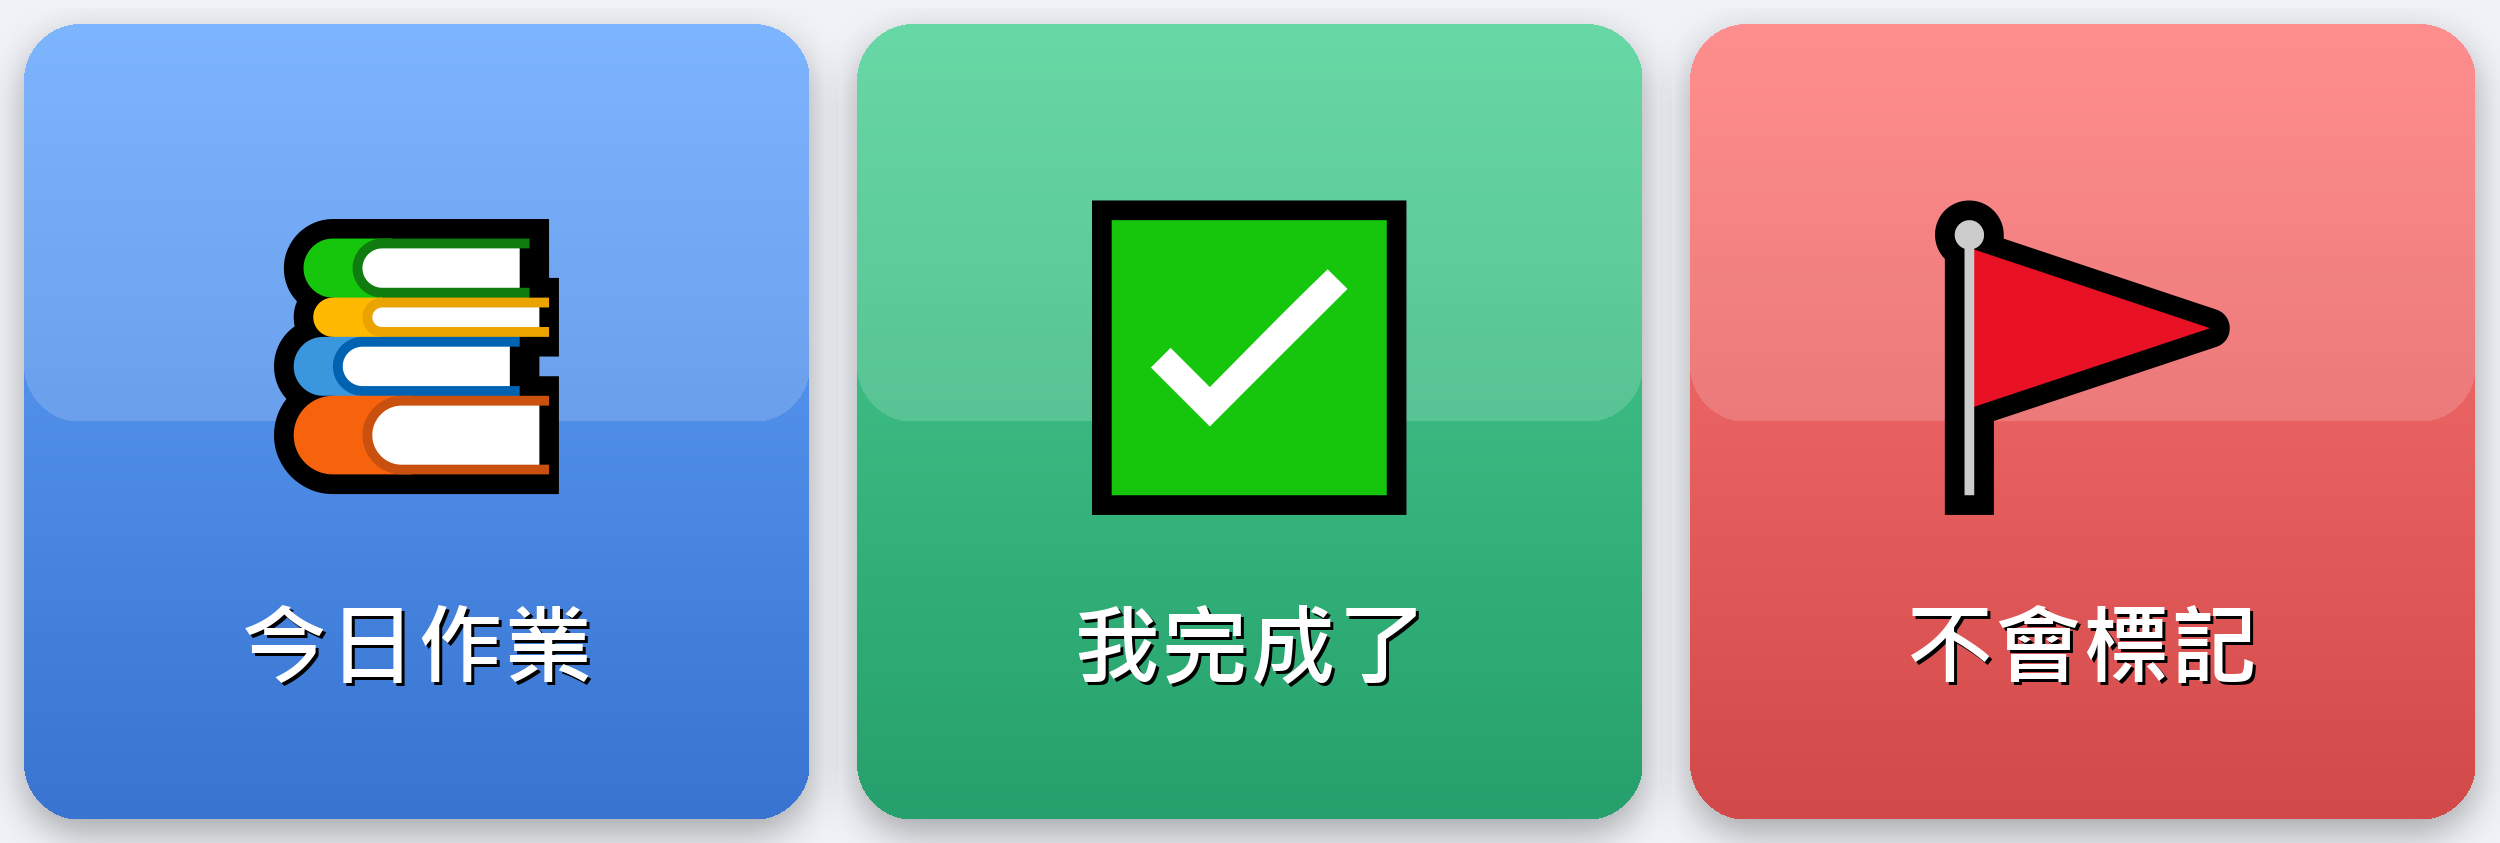
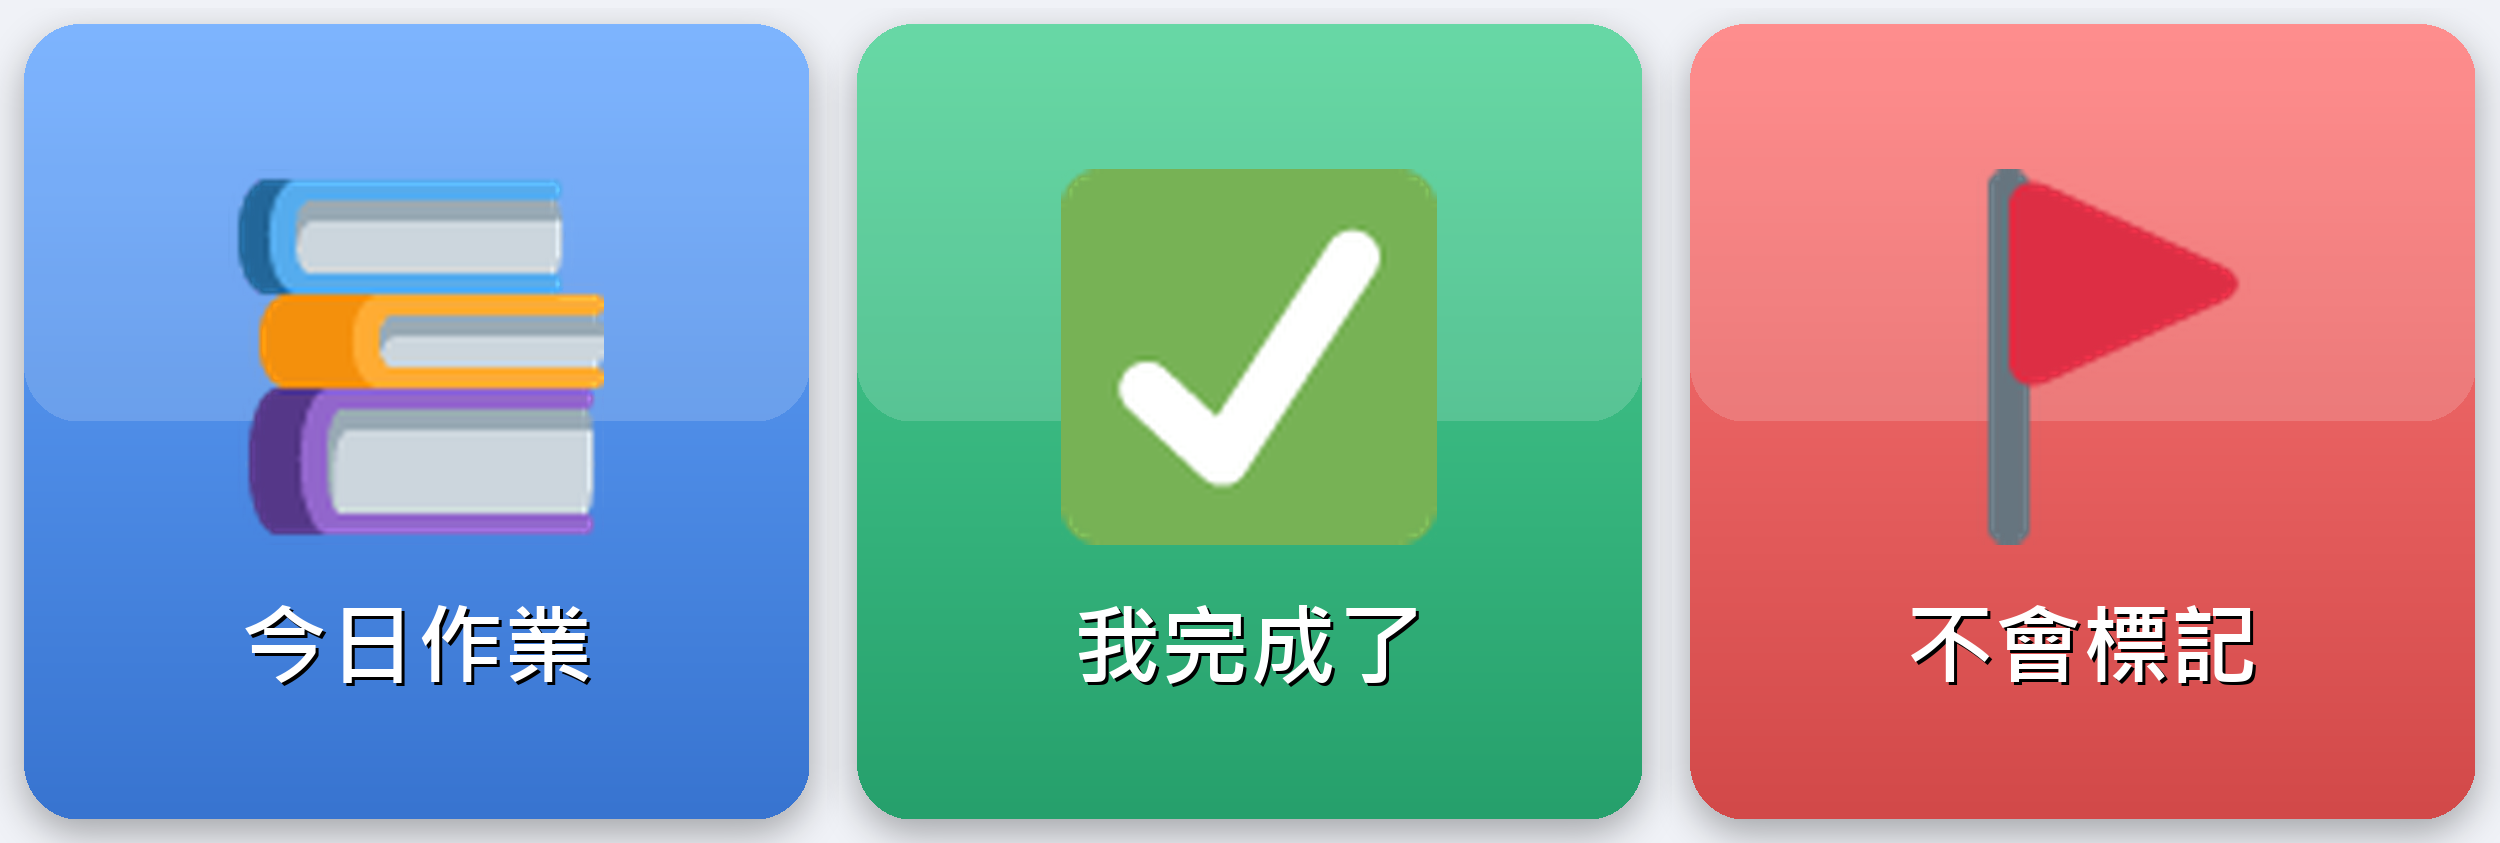
Bundle Twemoji PNGs, shorten stuck prompt, add /delete command

Changed region(s): [[0.4056, 0.1851, 0.5928, 0.6477], [0.0936, 0.2159, 0.2496, 0.6477], [0.7488, 0.1851, 0.9048, 0.6477]]

diff --git a/tests/test_delete.py b/tests/test_delete.py
@@ -1,0 +1,93 @@
+from __future__ import annotations
+
+import base64
+import hashlib
+import hmac
+import json
+from datetime import date
+from unittest.mock import patch
+
+from app.services import assignment as svc
+
+
+def _post(client, events):
+    body = json.dumps({"events": events}).encode("utf-8")
+    sig = base64.b64encode(hmac.new(b"test-secret", body, hashlib.sha256).digest()).decode()
+    return client.post("/callback", content=body, headers={"X-Line-Signature": sig})
+
+
+def _teacher_msg(text: str) -> dict:
+    return {
+        "type": "message",
+        "replyToken": "rt1",
+        "source": {"userId": "U_teacher_test", "type": "user"},
+        "message": {"type": "text", "id": "m1", "text": text},
+    }
+
+
+def test_delete_today(client, session_factory, monkeypatch):
+    monkeypatch.setattr(svc, "today_local", lambda tz=None: date(2026, 4, 21))
+    s = session_factory()
+    try:
+        svc.upsert_today(s, "要刪的作業")
+    finally:
+        s.close()
+    with patch("app.handlers.teacher.reply_text") as m:
+        _post(client, [_teacher_msg("/delete today")])
+    msg = m.call_args.args[1]
+    assert "🗑" in msg or "已刪除" in msg
+    assert "要刪的作業" in msg
+    s = session_factory()
+    try:
+        assert svc.get_by_date(s, date(2026, 4, 21)) is None
+    finally:
+        s.close()
+
+
+def test_delete_by_iso_date(client, session_factory, monkeypatch):
+    monkeypatch.setattr(svc, "today_local", lambda tz=None: date(2026, 4, 21))
+    s = session_factory()
+    try:
+        svc.upsert_by_date(s, date(2026, 4, 25), "未來要刪")
+    finally:
+        s.close()
+    with patch("app.handlers.teacher.reply_text") as m:
+        _post(client, [_teacher_msg("/delete 2026-04-25")])
+    assert "已刪除" in m.call_args.args[1]
+    s = session_factory()
+    try:
+        assert svc.get_by_date(s, date(2026, 4, 25)) is None
+    finally:
+        s.close()
+
+
+def test_delete_by_weekday(client, session_factory, monkeypatch):
+    # today = 2026-04-21 (Tue); 週五 → 2026-04-24
+    monkeypatch.setattr(svc, "today_local", lambda tz=None: date(2026, 4, 21))
+    s = session_factory()
+    try:
+        svc.upsert_by_date(s, date(2026, 4, 24), "週五的作業")
+    finally:
+        s.close()
+    with patch("app.handlers.teacher.reply_text") as m:
+        _post(client, [_teacher_msg("/delete 週五")])
+    assert "已刪除" in m.call_args.args[1]
+    s = session_factory()
+    try:
+        assert svc.get_by_date(s, date(2026, 4, 24)) is None
+    finally:
+        s.close()
+
+
+def test_delete_nonexistent_friendly(client, monkeypatch):
+    monkeypatch.setattr(svc, "today_local", lambda tz=None: date(2026, 4, 21))
+    with patch("app.handlers.teacher.reply_text") as m:
+        _post(client, [_teacher_msg("/delete 2026-04-21")])
+    msg = m.call_args.args[1]
+    assert "沒有作業" in msg or "無需刪除" in msg
+
+
+def test_delete_usage_on_empty(client):
+    with patch("app.handlers.teacher.reply_text") as m:
+        _post(client, [_teacher_msg("/delete")])
+    assert "用法" in m.call_args.args[1]

diff --git a/app/services/rich_menu.py b/app/services/rich_menu.py
@@ -26,6 +26,13 @@ TEACHER_HEIGHT = 1686  # 2 rows × 3 cols
 STUDENT_HEIGHT = 843   # 1 row × 3 cols
 
 ASSETS_DIR = Path(__file__).resolve().parents[2] / "assets" / "rich_menu"
+EMOJI_DIR = Path(__file__).resolve().parents[2] / "assets" / "emoji"
+
+
+def _emoji_to_twemoji_hex(emoji_char: str) -> str:
+    """Convert emoji char to lowercase twemoji hex filename (multi-codepoint joined by '-')."""
+    parts = [f"{ord(c):x}" for c in emoji_char if c != "\ufe0f"]  # drop variation selectors
+    return "-".join(parts)
 
 
 @dataclass
@@ -88,12 +95,28 @@ _EMOJI_FONT_PATHS = [
 def _render_emoji_to_image(emoji_char: str, target_height: int):
     """Render emoji as an RGBA PIL image at target_height.
 
-    Loads NotoColorEmoji at its native 109 size (CBDT font), renders to a
-    transparent canvas, crops to tight bbox, and resizes to target.
-    Returns None if no color emoji font available.
+    Priority:
+      1. Bundled Twemoji PNG in assets/emoji/<hex>.png (always works, no font deps)
+      2. NotoColorEmoji via Pillow (if installed)
+      3. None (caller falls back to text draw)
     """
     from PIL import Image, ImageDraw, ImageFont
 
+    # 1. Try bundled Twemoji PNG first — most reliable
+    hex_code = _emoji_to_twemoji_hex(emoji_char)
+    png_path = EMOJI_DIR / f"{hex_code}.png"
+    if png_path.exists():
+        try:
+            img = Image.open(png_path).convert("RGBA")
+            if img.height != target_height:
+                ratio = target_height / img.height
+                new_size = (max(1, int(img.width * ratio)), target_height)
+                img = img.resize(new_size, Image.LANCZOS)
+            return img
+        except Exception as exc:
+            log.warning("twemoji_load_failed", emoji=emoji_char, error=str(exc))
+
+    # 2. Fallback: try NotoColorEmoji / Apple Color Emoji via font
     native_size = 109
     font = None
     for p in _EMOJI_FONT_PATHS:
@@ -104,12 +127,10 @@ def _render_emoji_to_image(emoji_char: str, target_height: int):
             continue
     if font is None:
         return None
-
-    # Render into transparent canvas sized for a single emoji (~136x128 native)
-    canvas = Image.new("RGBA", (180, 160), (0, 0, 0, 0))
+    canvas = Image.new("RGBA", (200, 200), (0, 0, 0, 0))
     draw = ImageDraw.Draw(canvas)
     try:
-        draw.text((20, 15), emoji_char, font=font, embedded_color=True)
+        draw.text((30, 30), emoji_char, font=font, embedded_color=True)
     except Exception:
         return None
     bbox = canvas.getbbox()

diff --git a/app/messages.py b/app/messages.py
@@ -197,20 +197,33 @@ def teacher_help_text() -> str:
         "/assign YYYY-MM-DD <內容>\n"
         "/assign 週三: <內容> — 最近一次週三\n"
         "多項目：內容用 ; ；、分開\n"
-        "例：/assign 週三: 第2回、第3回\n"
         "\n"
-        "批次一整週（每行 週X: 內容）：\n"
-        "/assign\n"
-        "週一: 第1回\n"
-        "週三: 第2回; 生詞\n"
-        "週五: 第3回\n"
+        "/delete today — 刪除今日作業\n"
+        "/delete YYYY-MM-DD\n"
+        "/delete 週三 — 最近一次週三\n"
         "\n"
         "/today /history [N] /pending\n"
-        "/schedule [N] — 今天起 N 天排程\n"
-        "/students — 目前登記的學生\n"
-        "/stuck — 學生標記不會的觀念清單\n"
-        "/stuck clear — 標記全部已講解\n"
+        "/schedule [N] /students\n"
+        "/stuck /stuck clear\n"
         "/whoami /help"
+    )
+
+
+def delete_ack_text(assignment, target_date) -> str:
+    if assignment is None:
+        return f"⚠ {target_date.isoformat()} 本來就沒有作業，無需刪除"
+    return (
+        f"🗑 已刪除 {assignment.assigned_date.isoformat()} 作業\n"
+        f"「{assignment.content}」"
+    )
+
+
+def delete_usage_text() -> str:
+    return (
+        "用法：\n"
+        "/delete today — 刪今日作業\n"
+        "/delete YYYY-MM-DD — 刪指定日期\n"
+        "/delete 週三 — 刪最近一次週三"
     )
 
 
@@ -364,10 +377,8 @@ def teacher_notify_photo(student_label: str, assignment: Assignment | None) -> s
 def student_stuck_prompt() -> str:
     return (
         "🚩 今天有什麼觀念或章節不太會？\n"
-        "直接打字告訴我就好，例如：\n"
-        "「二次函數配方法」\n"
-        "「第3回第5題不會」\n\n"
-        "如果今天都懂，回覆「無」即可 ✅"
+        "直接打字告訴我就好。\n"
+        "如果都懂，回覆「無」即可 ✅"
     )
 
 

diff --git a/app/handlers/teacher.py b/app/handlers/teacher.py
@@ -5,11 +5,20 @@ from urllib.parse import parse_qs
 from sqlalchemy.orm import Session
 
 from app.config import get_settings
-from app.handlers.commands import ParsedCommand, parse_batch_assign, split_assign_args
+from app.handlers.commands import (
+    ParsedCommand,
+    parse_batch_assign,
+    parse_weekday_token,
+    resolve_weekday_to_date,
+    split_assign_args,
+    try_parse_iso_date,
+)
 from app.line_client import reply_text
 from app.logging import get_logger
 from app.messages import (
     assign_ack_text,
+    delete_ack_text,
+    delete_usage_text,
     history_text,
     pending_text,
     schedule_text,
@@ -64,7 +73,32 @@ def handle_teacher_command(session: Session, reply_token: str, cmd: ParsedComman
     if name == "stuck":
         _handle_stuck(session, reply_token, cmd)
         return
+    if name == "delete":
+        _handle_delete(session, reply_token, cmd)
+        return
     reply_text(reply_token, "未知指令。輸入 /help 查看可用指令。")
+
+
+def _handle_delete(session: Session, reply_token: str, cmd: ParsedCommand) -> None:
+    if not cmd.args or not cmd.args[0].strip():
+        reply_text(reply_token, delete_usage_text())
+        return
+    arg = cmd.args[0].strip()
+    today = svc.today_local()
+    target_date = None
+    if arg.lower() == "today" or arg in ("今日", "今天"):
+        target_date = today
+    else:
+        target_date = try_parse_iso_date(arg)
+        if target_date is None:
+            weekday = parse_weekday_token(arg)
+            if weekday is not None:
+                target_date = resolve_weekday_to_date(weekday, today)
+    if target_date is None:
+        reply_text(reply_token, delete_usage_text())
+        return
+    deleted = svc.delete_by_date(session, target_date)
+    reply_text(reply_token, delete_ack_text(deleted, target_date))
 
 
 def _handle_stuck(session: Session, reply_token: str, cmd: ParsedCommand) -> None:

diff --git a/app/services/assignment.py b/app/services/assignment.py
@@ -348,6 +348,26 @@ def list_overdue_task_states(
     return [TaskState(task=t, completed_at=None) for t in tasks]
 
 
+def delete_by_date(session: Session, d: date) -> Assignment | None:
+    """Delete the assignment for a given date. Cascades to tasks / state / photos.
+    Returns the deleted assignment (detached) or None if not found."""
+    existing = get_by_date(session, d)
+    if existing is None:
+        return None
+    snapshot_content = existing.content
+    snapshot_date = existing.assigned_date
+    # Capture attributes before delete (ORM expires the object)
+    session.delete(existing)
+    session.commit()
+    # Return a minimal stub for display (detached)
+    class _Ghost:
+        pass
+    ghost = _Ghost()
+    ghost.content = snapshot_content
+    ghost.assigned_date = snapshot_date
+    return ghost  # type: ignore[return-value]
+
+
 def _default_student_id(session: Session) -> int | None:
     """Legacy helper: first active student id (for tests / migration compat)."""
     s = session.execute(

diff --git a/tests/test_stuck.py b/tests/test_stuck.py
@@ -89,8 +89,9 @@ def test_student_stuck_prompt_postback(client, session_factory):
             "postback": {"data": "action=stuck_prompt"},
         }])
     assert mr.called
-    # New prompt asks "有什麼觀念或章節不太會" — not /stuck format
-    assert "不會" in mr.call_args.args[1]
+    msg = mr.call_args.args[1]
+    # New prompt asks "有什麼觀念或章節不太會" — friendlier free-text prompt
+    assert "觀念" in msg or "章節" in msg
     # Awaiting flag should be set
     s = session_factory()
     try:
